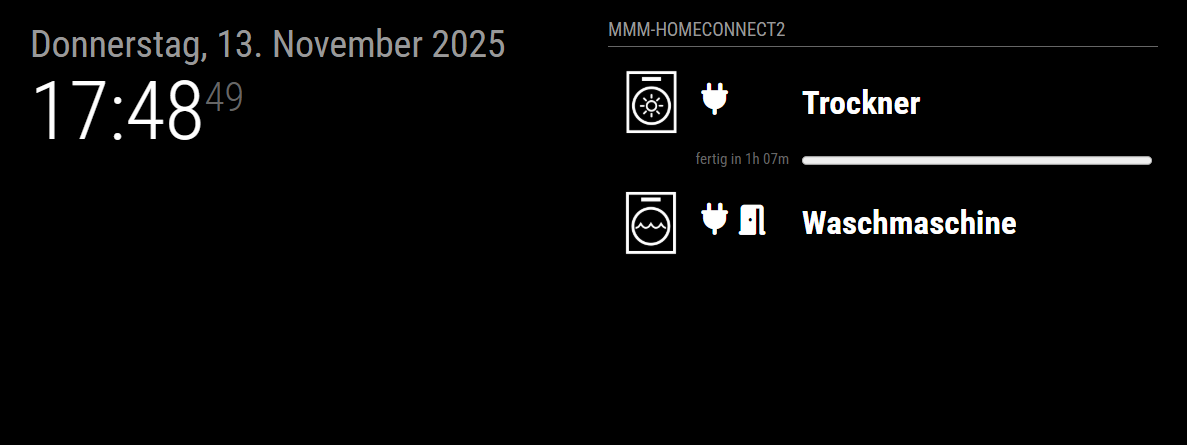
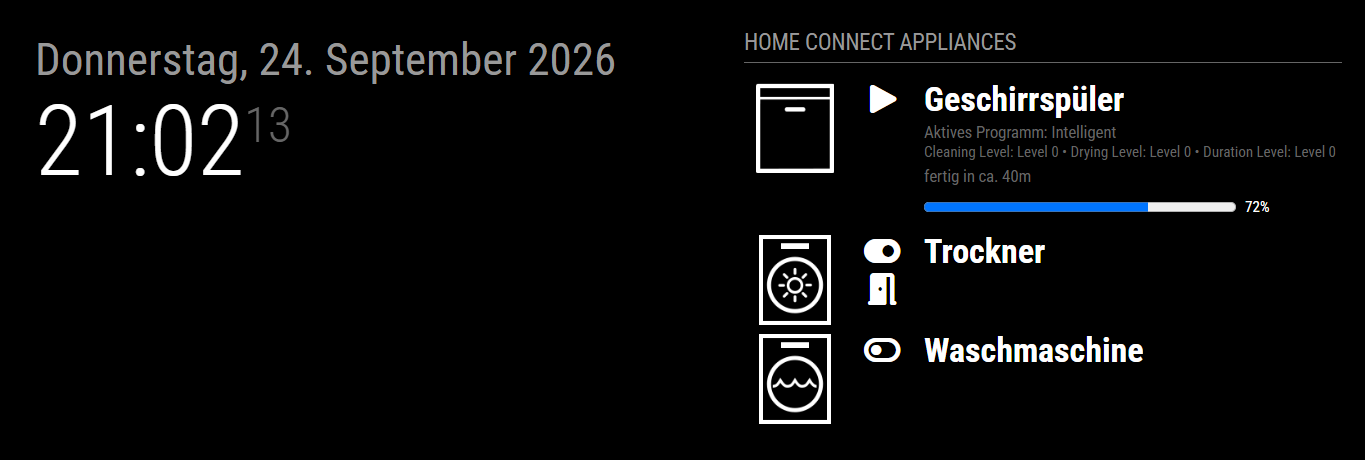
docs: refresh the screenshot and add one of the appliance states

diff --git a/wiki/Home.md b/wiki/Home.md
@@ -6,6 +6,8 @@ MMM-HomeConnect2 connects Home Connect appliances to MagicMirror without requiri
 
 ![MMM-HomeConnect2](https://raw.githubusercontent.com/HeikoGr/MMM-HomeConnect2/master/img/screenshot.png)
 
+![Device states](https://raw.githubusercontent.com/HeikoGr/MMM-HomeConnect2/master/img/screenshot-states.png)
+
 Use this wiki if you want to:
 
 - install the module cleanly

diff --git a/README.md b/README.md
@@ -6,6 +6,10 @@ MagicMirror module for Home Connect appliances using the OAuth2 device flow.
 
 ![MMM-HomeConnect2](img/screenshot.png)
 
+Device states — running with progress, delayed start, finished, open door:
+
+![Device states](img/screenshot-states.png)
+
 ## Installation
 
 ```bash
